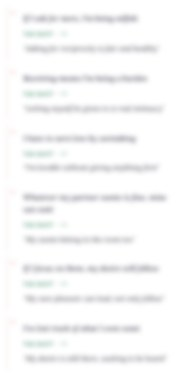
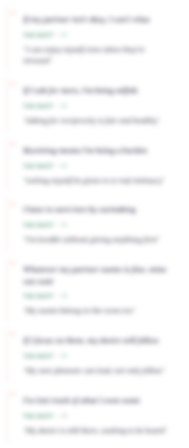
fix(report): the beliefs blur starts on one line, and the locked Learn sits closed
TWO COLUMNS, ONE BLUR LINE

A keep row is one line of text; a loosen row carries its THE SHIFT reframe
underneath and is twice as tall. Four rows per column therefore started the blur
214px lower in the loosen column than in the keep column — a stepped edge down
the middle of the card.

- the tease is now five keeps and three loosens, which lands the two live bands
  within ~30px of each other at every desktop width (measured 1440 → 769).
- each raster is a SIBLING of its list rather than its last child, and the two
  columns share three grid row tracks — label, rows, raster — via subgrid, which
  closes the remaining gap: the rasters begin on the same line to the pixel at
  1440/1200/1024/900/800/769, however the text wraps. Where subgrid is not
  supported the columns simply keep their own heights, i.e. today's behaviour.
- the live-row ramp is addressed from the END of each list (`:nth-last-child(2)`
  and `:last-child`) instead of by index, since the two columns now ship
  different counts.

The paywall card had to move with it. Its 430px offset (was 300) is measured
against the deepest live row across BOTH columns — the old value was measured
against the keep column alone and sat over the loosen column's tail by up to
109px. Stacked, the box grows 1440 → 1680 (and 1650 → 1860 below 360px) for the
same reason: the card is pinned to the bottom, so the box has to be at least the
live rows plus the card. Every width now clears by 21-168px with the card still
[…]

diff --git a/features/report/tests/BeliefsSection.locked.test.tsx b/features/report/tests/BeliefsSection.locked.test.tsx
@@ -78,10 +78,13 @@ describe("BeliefsSection — locked tease", () => {
       "/report-previews/beliefs-keep-desktop.jpg",
       "/report-previews/beliefs-loosen-desktop.jpg",
     ]);
-    // Each image is the LAST child of its column's list, so it continues that
-    // column rather than floating beside it.
+    // Each image follows its column's list as the NEXT sibling — not the list's last
+    // child — so both columns can share grid row tracks (label / rows / raster) and
+    // the blur starts on one line across the card. Inside the list it inherited the
+    // list's own height and the two columns drifted apart.
     for (const list of fade.querySelectorAll(".report-beliefs__list")) {
-      expect(list.lastElementChild?.className).toContain("report-locked-preview");
+      expect(list.lastElementChild?.className).toContain("report-beliefs__item");
+      expect(list.nextElementSibling?.className).toContain("report-locked-preview");
     }
   });
 
@@ -112,15 +115,25 @@ describe("BeliefsSection — locked tease", () => {
 });
 
 describe("BeliefsSection — how much the server ships", () => {
-  it("ships four rows per column to a locked client, and all of them to a paid one", () => {
-    // Four, because the rows past them are not in the payload at all — they are the
-    // per-column rasters — and because the last two are what let the blur come on
-    // gradually before the image starts. It was three rows and a fade, then six and
-    // a blur, then two and a raster that began at full strength under sharp text.
+  it("ships five keeps and three loosens to a locked client, all of them to a paid one", () => {
+    // The rows past the tease are not in the payload at all — they are the per-column
+    // rasters — and the last two of each column are what let the blur come on
+    // gradually before the image starts.
+    //
+    // The counts differ per column BY DESIGN: a keep row is one line, a loosen row
+    // carries its reframe underneath and is twice as tall, so four and four started
+    // the blur 214px lower in the loosen column. Five and three put the two bands
+    // within ~30px at every desktop width, which is what lets the shared row tracks
+    // land both rasters on one line.
     const route = readFileSync(join(process.cwd(), "app/api/report/route.ts"), "utf8");
-    expect(route).toMatch(/const BELIEFS_TEASER_ROWS = 4;/);
-    expect(route).toMatch(/length: beliefsUnlocked \? BELIEFS_KEEP_ROWS : BELIEFS_TEASER_ROWS/);
-    expect(route).toMatch(/length: beliefsUnlocked \? BELIEFS_LOOSEN_ROWS : BELIEFS_TEASER_ROWS/);
+    expect(route).toMatch(/const BELIEFS_TEASER_KEEP_ROWS = 5;/);
+    expect(route).toMatch(/const BELIEFS_TEASER_LOOSEN_ROWS = 3;/);
+    expect(route).toMatch(
+      /length: beliefsUnlocked \? BELIEFS_KEEP_ROWS : BELIEFS_TEASER_KEEP_ROWS/
+    );
+    expect(route).toMatch(
+      /length: beliefsUnlocked \? BELIEFS_LOOSEN_ROWS : BELIEFS_TEASER_LOOSEN_ROWS/
+    );
   });
 
   it("captures the row rules at low contrast, since a blur cannot destroy a line", () => {
@@ -155,14 +168,16 @@ describe("BeliefsSection — how much the server ships", () => {
     const beliefs = block.slice(0, block.indexOf('name: "accel-opens"'));
     expect(beliefs).toContain('name: "beliefs-keep"');
     expect(beliefs).toContain('name: "beliefs-loosen"');
-    expect([...beliefs.matchAll(/keepRows: (\d+)/g)].map((m) => Number(m[1]))).toEqual([4, 4]);
+    expect([...beliefs.matchAll(/keepRows: (\d+)/g)].map((m) => Number(m[1]))).toEqual([5, 3]);
   });
 
   it("ramps the blur up before the raster starts", () => {
-    // A fully blurred image directly under sharp text reads as a pasted block. Rows
-    // three and four carry a light CSS blur so softness climbs 0 -> 1.2 -> 2.6 ->
-    // the image's own baseline, and the overlay keeps it climbing down the image
-    // instead of sitting flat, which is what read as "too strong in the middle".
+    // A fully blurred image directly under sharp text reads as a pasted block. The
+    // LAST TWO rows of each column carry a light CSS blur so softness climbs
+    // 0 -> 0.6 -> 1.4 -> the image's own baseline, and the overlay keeps it climbing
+    // down the image instead of sitting flat, which is what read as "too strong in
+    // the middle". Addressed from the END of the list, not by index: the two columns
+    // ship different row counts (five keeps, three loosens).
     const css = readFileSync(join(process.cwd(), "app/globals.css"), "utf8");
     const bodyAt = (selector: string) => {
       const at = css.indexOf(selector);
@@ -170,11 +185,10 @@ describe("BeliefsSection — how much the server ships", () => {
       return css.slice(at, css.indexOf("}", at));
     };
     const SCOPE = ".report-beliefs__preview-fade--tease .report-beliefs__list";
-    expect(bodyAt(`${SCOPE} > *:nth-child(3)`)).toContain("filter: blur(0.6px)");
-    expect(bodyAt(`${SCOPE} > *:nth-child(4)`)).toContain("filter: blur(1.4px)");
-    // Rows one and two are untouched.
-    expect(css).not.toContain(`${SCOPE} > *:nth-child(1)`);
-    expect(css).not.toContain(`${SCOPE} > *:nth-child(2)`);
+    expect(bodyAt(`${SCOPE} > *:nth-last-child(2)`)).toContain("filter: blur(0.6px)");
+    expect(bodyAt(`${SCOPE} > *:last-child`)).toContain("filter: blur(1.4px)");
+    // Every row above those two is untouched, in both columns.
+    expect(css).not.toContain(`${SCOPE} > *:nth-child(`);
 
     const graded = bodyAt(".report-beliefs__preview-fade--tease .report-locked-preview::after");
     expect(graded).toContain("backdrop-filter: blur(2px)");
@@ -182,6 +196,22 @@ describe("BeliefsSection — how much the server ships", () => {
     // raster's own blur, never subtract, so the withheld rows stay unrecoverable.
     expect(graded).toContain("rgba(0, 0, 0, 0) 0%");
     expect(graded).toContain("rgba(0, 0, 0, 1) 100%");
+  });
+
+  it("gives both columns the same row tracks so the blur starts on one line", () => {
+    // Equal row counts put the two blurs at different heights because the rows are
+    // different heights; the counts fix most of it and subgrid closes the rest by
+    // sharing three tracks — label, rows, raster — between the columns. Desktop only:
+    // below 769px the columns stack, where there is no line to match.
+    const css = readFileSync(join(process.cwd(), "app/globals.css"), "utf8");
+    const at = css.indexOf(".report-beliefs__preview-fade--tease .report-beliefs__cols");
+    expect(at, "the shared-track rule is gone").toBeGreaterThan(-1);
+    const block = css.slice(at, css.indexOf("\n}", css.indexOf(".report-beliefs__col {", at)));
+    expect(block).toContain("grid-template-rows: auto auto auto");
+    expect(block).toContain("grid-template-rows: subgrid");
+    expect(block).toContain("grid-row: span 3");
+    // Guarded to the side-by-side layout.
+    expect(css.slice(0, at)).toMatch(/@media \(min-width: 769px\)[^@]*$/);
   });
 
   it("captures a feather and pulls it back out, in both raster scopes", () => {
@@ -246,18 +276,21 @@ describe("BeliefsSection — how much the server ships", () => {
     ].map((m) => m[1]!);
     expect(rules.length, "the card's placement rules are gone").toBeGreaterThanOrEqual(3);
 
-    // Desktop: pushed down past the live band.
+    // Desktop: pushed down past the live band. The deepest live row across BOTH
+    // columns is 409px from the box top (at 769, where the columns are narrowest
+    // before they stack); 300 was measured against the keep column alone and covered
+    // the loosen column's tail.
     const desktop = rules.find((r) => r.includes("padding-top"))!;
     expect(desktop).toContain("align-items: flex-start");
-    expect(Number(desktop.match(/padding-top: (\d+)px/)![1])).toBeGreaterThanOrEqual(280);
+    expect(Number(desktop.match(/padding-top: (\d+)px/)![1])).toBeGreaterThanOrEqual(420);
 
     // Mobile: the columns stack, so the box has to clear BOTH sets of live rows —
-    // the second column's end at 830px, and the card is 560 tall.
+    // they run to 1047px at 768 — with the ~560px card pinned to the bottom.
     const mobileHeights = rules
       .map((r) => r.match(/min-height: (\d+)px/))
       .filter(Boolean)
       .map((m) => Number(m![1]));
-    expect(Math.min(...mobileHeights)).toBeGreaterThanOrEqual(1400);
+    expect(Math.min(...mobileHeights)).toBeGreaterThanOrEqual(1650);
   });
 
   it("adds no CSS filter of its own, and no mask anywhere", () => {

diff --git a/app/globals.css b/app/globals.css
@@ -26707,12 +26707,12 @@ input.autofill-dark:-internal-autofill-previewed {
    The image itself takes no CSS filter — it arrives blurred and quarter-scaled, and
    stacking a filter on top would make this chapter visibly softer than every other
    locked surface. */
-.report-beliefs__preview-fade--tease .report-beliefs__list > *:nth-child(3) {
+.report-beliefs__preview-fade--tease .report-beliefs__list > *:nth-last-child(2) {
   filter: blur(0.6px);
   opacity: 0.92;
 }
 
-.report-beliefs__preview-fade--tease .report-beliefs__list > *:nth-child(4) {
+.report-beliefs__preview-fade--tease .report-beliefs__list > *:last-child {
   filter: blur(1.4px);
   opacity: 0.84;
 }
@@ -26786,6 +26786,27 @@ input.autofill-dark:-internal-autofill-previewed {
     rgba(0, 0, 0, 0.5) 18px,
     rgba(0, 0, 0, 0) 40px
   );
+}
+
+/* ONE BLUR LINE ACROSS BOTH COLUMNS
+   A keep row is one line, a loosen row carries its reframe underneath, so equal row
+   counts put the two blurs on different heights — a stepped edge down the middle of
+   the card. The counts are already picked to land the bands within ~30px (five keeps
+   against three loosens, see app/api/report/route.ts); subgrid closes the rest by
+   giving both columns the SAME three row tracks — label, rows, raster — so the
+   rasters begin on one straight line however the text wraps. Where it is not
+   supported the columns simply keep their own heights, which is where they were. */
+@media (min-width: 769px) {
+  .report-beliefs__preview-fade--tease .report-beliefs__cols {
+    grid-template-rows: auto auto auto;
+    row-gap: 9px;
+  }
+
+  .report-beliefs__preview-fade--tease .report-beliefs__col {
+    display: grid;
+    grid-row: span 3;
+    grid-template-rows: subgrid;
+  }
 }
 
 .report-beliefs__preview-fade--tease .report-locked-preview {
@@ -26950,14 +26971,16 @@ input.autofill-dark:-internal-autofill-previewed {
    900. It now starts below them.
 
    A fixed offset rather than a computed one, because the card is `position:
-   absolute` and cannot know the rows' height. 300px clears the worst case: the live
-   band is tallest where the columns are narrowest before they stack (255px at
-   900px wide), plus a gap. Wider viewports get a little more clearance, which shows
-   more of the blurred rows above the card rather than empty space. */
+   absolute` and cannot know the rows' height. 430px clears the worst case at every
+   desktop width — measured from the box top, the deepest live row sits at 318px
+   (1024-1200), 356 (1440), 375 (900), 398 (800) and 409 (769, where the columns are
+   narrowest before they stack) — plus a gap. 300px was measured against the keep
+   column alone and covered the loosen column's tail by up to 109px. The card is
+   562px tall, so it still ends well inside the 1250px box. */
 @media (min-width: 769px) {
   .report-beliefs__preview--locked > .report-premium-overlay {
     align-items: flex-start;
-    padding-top: 300px;
+    padding-top: 430px;
   }
 }
 
@@ -27129,16 +27152,20 @@ input.autofill-dark:-internal-autofill-previewed {
      down, so the offer is never out of reach — and everything scrolled past is real
      blurred content rather than empty space. */
   .report-beliefs__preview--locked > .report-premium-overlay {
-    min-height: 1440px;
+    /* Stacked, both columns' live rows run to 1047px (768), 997 (390) and 956 (430)
+       from the box top, and the card is ~560 tall and pinned to the bottom — so the
+       box has to be at least their sum for the card to clear the rows it is meant to
+       sit under. 1440 left it 202px over them at 768. */
+    min-height: 1680px;
     align-items: flex-end;
   }
 }
 
-/* Below 360 the card grows to 697px and the live rows run to 908, so 1440 would put
-   it back over them. Its own breakpoint rather than one value for every phone, which
-   would add ~200px of scroll on the common widths for the sake of the narrowest. */
+/* Below 360 the card grows to 697px and the live rows run to 1108, so the common-phone
+   value would put it back over them. Its own breakpoint rather than one value for every
+   phone, which would add ~200px of scroll on the common widths for the narrowest. */
 @media (max-width: 359px) {
   .report-beliefs__preview--locked > .report-premium-overlay {
-    min-height: 1650px;
+    min-height: 1860px;
   }
 }

diff --git a/app/api/report/route.ts b/app/api/report/route.ts
@@ -711,34 +711,43 @@ export async function GET(request: Request) {
      *
      * Shipping the whole list and fading it made the entire chapter legible — the
      * fade is gentle enough that all nine keeps and ten loosens could be read, so
-     * there was nothing left to buy. FOUR per column is the tease as of 2026-08-19,
+     * there was nothing left to buy. FIVE keeps and THREE loosens as of 2026-08-20,
      * because the rows past them no longer come from here at all: the column
      * carries `beliefs-keep` / `beliefs-loosen`, build-time rasters of the real
      * remaining rows whose pixels were blurred and quarter-scaled before they ever
      * left the build machine (see scripts/generate-locked-previews.mjs). The
      * chapter therefore stands at its true length — nine keeps, ten loosens — with
-     * only four beliefs per column actually in the payload. Four rather than two so
-     * the blur can COME ON GRADUALLY in live text (rows three and four carry 1.2px
-     * and 2.6px) and the raster picks up where heavy blur already looks natural;
-     * starting the image at row three put a visible seam between sharp text and a
-     * fully blurred block.
+     * only these rows actually in the payload. More than two per column so the blur
+     * can COME ON GRADUALLY in live text (the last two rows of each column carry
+     * 1.2px and 2.6px) and the raster picks up where heavy blur already looks
+     * natural; starting the image earlier put a visible seam between sharp text and
+     * a fully blurred block.
      *
-     * `keepRows` in COLUMN_CAPTURES must match this number, or the two sharp rows
-     * and the image will either double up or skip a row.
+     * The counts DIFFER per column on purpose. A keep row is one line (51px at
+     * 1440); a loosen row carries its THE SHIFT reframe underneath (111px). Four
+     * and four therefore started the blur 214px lower in the loosen column than in
+     * the keep column — a stepped edge across the card. Five and three land the two
+     * bands within ~30px at every desktop width, and the columns share grid row
+     * tracks (see .report-beliefs__cols in globals.css) so the rasters begin on one
+     * straight line.
+     *
+     * `keepRows` in COLUMN_CAPTURES must match these numbers per column, or the
+     * sharp rows and the image will either double up or skip a row.
      *
      * This is the real boundary: strip every filter in devtools and there is
-     * nothing past row two in the DOM. `body.p1`, the per-archetype closing
+     * nothing past these rows in the DOM. `body.p1`, the per-archetype closing
      * paragraph, stays withheld as well.
      */
-    const BELIEFS_TEASER_ROWS = 4;
+    const BELIEFS_TEASER_KEEP_ROWS = 5;
+    const BELIEFS_TEASER_LOOSEN_ROWS = 3;
     const BELIEFS_KEEP_ROWS = 9;
     const BELIEFS_LOOSEN_ROWS = 10;
     const beliefsKeep: (string | null)[] = Array.from(
-      { length: beliefsUnlocked ? BELIEFS_KEEP_ROWS : BELIEFS_TEASER_ROWS },
+      { length: beliefsUnlocked ? BELIEFS_KEEP_ROWS : BELIEFS_TEASER_KEEP_ROWS },
       (_, i) => beliefsSection[`keep.${i + 1}`] ?? null
     );
     const beliefsLoosen = Array.from(
-      { length: beliefsUnlocked ? BELIEFS_LOOSEN_ROWS : BELIEFS_TEASER_ROWS },
+      { length: beliefsUnlocked ? BELIEFS_LOOSEN_ROWS : BELIEFS_TEASER_LOOSEN_ROWS },
       (_, i) => ({
         belief: beliefsSection[`loosen.${i + 1}.belief`] ?? null,
         shift: beliefsSection[`loosen.${i + 1}.shift`] ?? null,

diff --git a/features/report/ui/sections/BeliefsSection.tsx b/features/report/ui/sections/BeliefsSection.tsx
@@ -157,7 +157,12 @@ const BeliefsSection: FC<Props> = ({
                   One image per column, not one for the section: the columns sit
                   side by side but a keep row is 51px against a loosen row's 111px,
                   so a single raster under the sharp rows would line up with one
-                  column and not the other. */}
+                  column and not the other.
+
+                  Each raster is a SIBLING of its list, not its last child, so the
+                  two columns can share grid row tracks (label / rows / raster) and
+                  the blur starts on one straight line across the card however the
+                  rows wrap. */}
               <div className="report-beliefs__preview-fade report-beliefs__preview-fade--tease">
                 <div className="report-beliefs__cols">
                   {keep.length > 0 ? (
@@ -169,8 +174,8 @@ const BeliefsSection: FC<Props> = ({
                         {keep.map((text, i) => (
                           <KeepItem key={i} text={text} />
                         ))}
-                        <LockedPreviewImage name="beliefs-keep" />
                       </div>
+                      <LockedPreviewImage name="beliefs-keep" />
                     </div>
                   ) : null}
 
@@ -183,8 +188,8 @@ const BeliefsSection: FC<Props> = ({
                         {loosen.map((item, i) => (
                           <LoosenItem key={i} belief={item.belief as string} shift={item.shift} />
                         ))}
-                        <LockedPreviewImage name="beliefs-loosen" />
                       </div>
+                      <LockedPreviewImage name="beliefs-loosen" />
                     </div>
                   ) : null}
                 </div>

diff --git a/features/report/tests/AttachmentPatternsSection.test.tsx b/features/report/tests/AttachmentPatternsSection.test.tsx
@@ -118,11 +118,19 @@ describe("AttachmentPatternsSection", () => {
     expect(document.querySelector(".report-premium-overlay")).toBeInTheDocument();
     expect(document.querySelector(".report-attachment-card--blur")).toBeInTheDocument();
 
-    // Universal educational content is STILL shown when locked.
+    // The universal learn block is STILL shown when locked...
     expect(screen.getByText("What you will learn")).toBeInTheDocument();
+    // ...but the collapsible reads as closed, exactly like paid-collapsed does: the
+    // teaser and its CTA, and NOT the five-patterns block. Rendering the patterns
+    // inside the closed peek made the expander look open (1,786px of blur).
+    expect(document.querySelector(".report-attachment__details-peek")).toBeInTheDocument();
+    expect(document.querySelector(".report-attachment__details-summary")).toHaveAttribute(
+      "aria-expanded",
+      "false"
+    );
     expect(
-      screen.getByText("Common Attachment Style Patterns Across Archetypes")
-    ).toBeInTheDocument();
+      screen.queryByText("Common Attachment Style Patterns Across Archetypes")
+    ).not.toBeInTheDocument();
   });
 });
 

diff --git a/features/report/ui/sections/AttachmentPatternsSection.tsx b/features/report/ui/sections/AttachmentPatternsSection.tsx
@@ -602,6 +602,9 @@ const AttachmentPatternsSection: FC<Props> = ({
                   explanation"). 13 of the report's 16 collapsibles already ship
                   this button; Attachment was one of three that never did, so the
                   only way to expand was the header row. */}
+              {/* Locked reads exactly like paid-collapsed: teaser + peek CTA. It used
+                  to render the whole five-patterns block in here too, which made a
+                  closed expander look like an open 1,900px drawer of blur. */}
               {locked || !expanded ? (
                 <div className="report-attachment__details-peek report-learn-peek">
                   {copy["edu.teaser"] ? (
@@ -619,7 +622,6 @@ const AttachmentPatternsSection: FC<Props> = ({
                       {locked ? "Unlock to read the full explanation" : "Read the full explanation"}
                     </button>
                   ) : null}
-                  {locked ? patternsBlock : null}
                 </div>
               ) : (
                 <div className="report-attachment__details-body">
